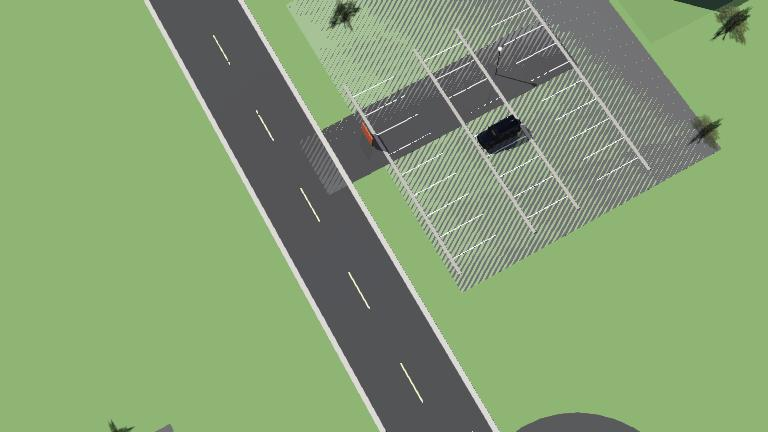
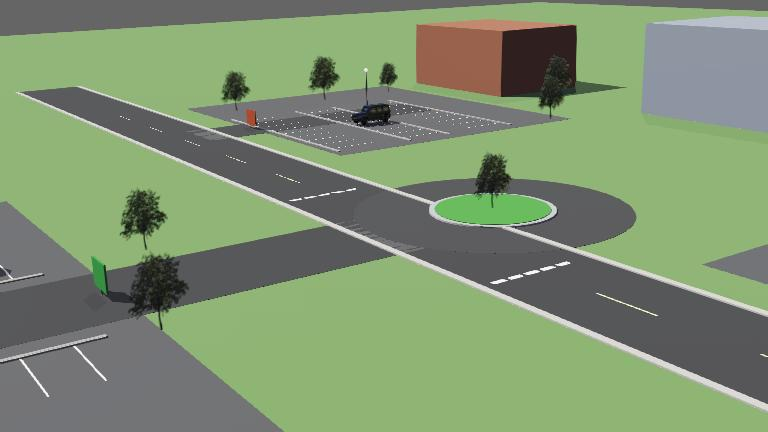
Añadido coche BmwX5 con código de seguimiento

diff --git a/controllers/coche_seguidor/coche_seguidor.py b/controllers/coche_seguidor/coche_seguidor.py
@@ -1,0 +1,112 @@
+"""coche_seguidor controller."""
+
+from vehicle import Driver
+import math
+import time
+
+# ==========================================
+# 1. CONFIGURACIÓN INICIAL
+# ==========================================
+driver = Driver()
+TIME_STEP = int(driver.getBasicTimeStep())
+
+# Variables de control
+DISTANCIA_SEGURIDAD = 3.0
+VELOCIDAD_CRUCERO = 15.0 / 3.6  # Convertir 15 km/h a m/s (4.17 m/s)
+KP_GIRO = 0.3
+MAX_STEERING_ANGLE = math.radians(30)  # Máximo 30 grados
+TIMEOUT_SEÑAL = 2.0  # Segundos sin mensaje = señal perdida
+
+# ==========================================
+# 2. INICIALIZAR SENSORES
+# ==========================================
+gps = driver.getDevice("gps")
+gps.enable(TIME_STEP)
+
+compass = driver.getDevice("compass")
+compass.enable(TIME_STEP)
+
+receiver = driver.getDevice("receiver")
+receiver.enable(TIME_STEP)
+
+print("Sistema de conducción autónoma activado.")
+print(f"Escuchando al dron. Distancia objetivo: {DISTANCIA_SEGURIDAD}m")
+print(f"Velocidad: {VELOCIDAD_CRUCERO:.2f} m/s ({VELOCIDAD_CRUCERO * 3.6:.1f} km/h)")
+
+# Variables
+target_x = None
+target_z = None
+ultimo_mensaje = time.time()
+error_giro_anterior = 0.0
+
+# ==========================================
+# 3. BUCLE PRINCIPAL
+# ==========================================
+while driver.step() != -1:
+    
+    # A. LEER MENSAJES DEL DRON
+    if receiver.getQueueLength() > 0:
+        mensaje = receiver.getString()
+        
+        try:
+            coordenadas = mensaje.split(',')
+            target_x = float(coordenadas[0])
+            target_z = float(coordenadas[1])
+            ultimo_mensaje = time.time()
+        except Exception as e:
+            print("Error leyendo mensaje del dron. Formato: 'X,Z'")
+            
+        receiver.nextPacket()
+    
+    # B. LÓGICA DE PERSECUCIÓN
+    if target_x is not None and target_z is not None:
+        
+        # Verificar si la señal se perdió
+        if (time.time() - ultimo_mensaje) > TIMEOUT_SEÑAL:
+            print("Señal del dron perdida (timeout). Deteniendo.")
+            driver.setCruisingSpeed(0.0)
+            target_x = None
+            target_z = None
+        else:
+            # 1. Leer posición actual
+            posicion_actual = gps.getValues()
+            mi_x = posicion_actual[0]
+            mi_z = posicion_actual[2]
+            
+            # 2. Calcular distancia
+            distancia = math.sqrt((target_x - mi_x)**2 + (target_z - mi_z)**2)
+            
+            # 3. Leer brújula
+            brujula = compass.getValues()
+            mi_angulo = math.atan2(brujula[0], brujula[2])
+            
+            # 4. Calcular ángulo objetivo
+            angulo_objetivo = math.atan2(target_x - mi_x, target_z - mi_z)
+            
+            # 5. Calcular error de giro
+            error_giro = angulo_objetivo - mi_angulo
+            
+            # Normalizar ángulo
+            if error_giro > math.pi:
+                error_giro -= 2.0 * math.pi
+            elif error_giro < -math.pi:
+                error_giro += 2.0 * math.pi
+            
+            # Suavizar error (filtro simple)
+            error_giro = (error_giro * 0.7) + (error_giro_anterior * 0.3)
+            error_giro_anterior = error_giro
+            
+            # 6. Calcular ángulo del volante con límites
+            angulo_volante = error_giro * KP_GIRO
+            angulo_volante = max(-MAX_STEERING_ANGLE, min(MAX_STEERING_ANGLE, angulo_volante))
+            driver.setSteeringAngle(angulo_volante)
+            
+            # 7. Controlar velocidad según distancia
+            if distancia > DISTANCIA_SEGURIDAD:
+                driver.setCruisingSpeed(VELOCIDAD_CRUCERO)
+            else:
+                driver.setCruisingSpeed(0.0)
+    
+    else:
+        # Sin señal: quieto
+        driver.setCruisingSpeed(0.0)

diff --git a/controllers/parking_controller/parking_controller.py b/controllers/parking_controller/parking_controller.py
@@ -9,7 +9,7 @@ import torch
 
 from parking_detector import MorphologicalBackend, SpotConfig, YOLOBackend
 
-yolo = True  # True usa Yolo, False usa morfológico
+yolo = False  # True usa Yolo, False usa morfológico
 
 def encode_frame_to_base64(frame_bgra: np.ndarray) -> str:
     """Convierte un frame BGRA (Webots) a JPEG base64 para enviar al navegador."""
